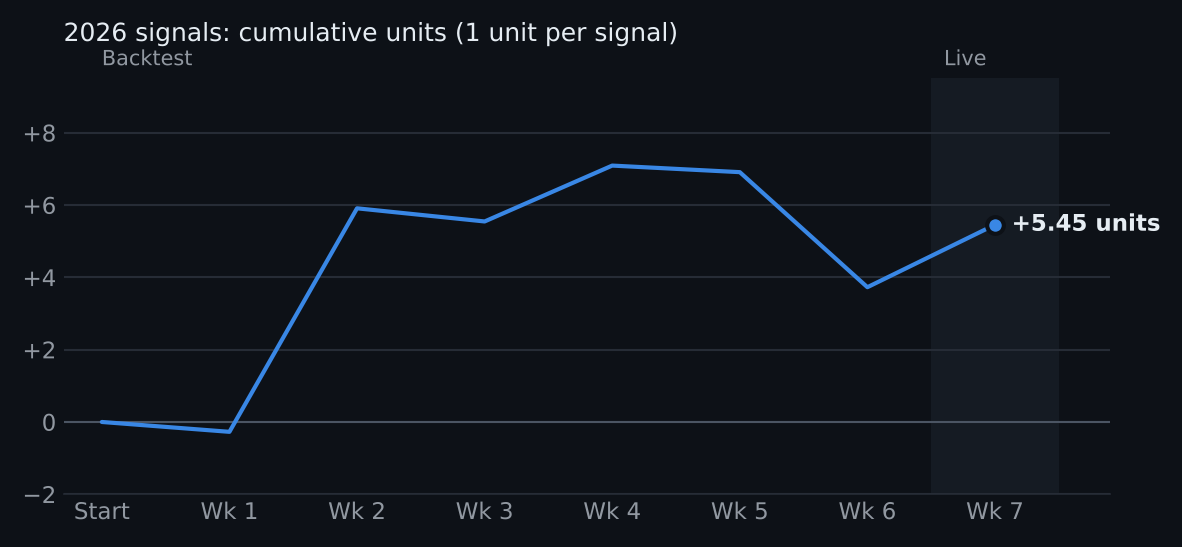
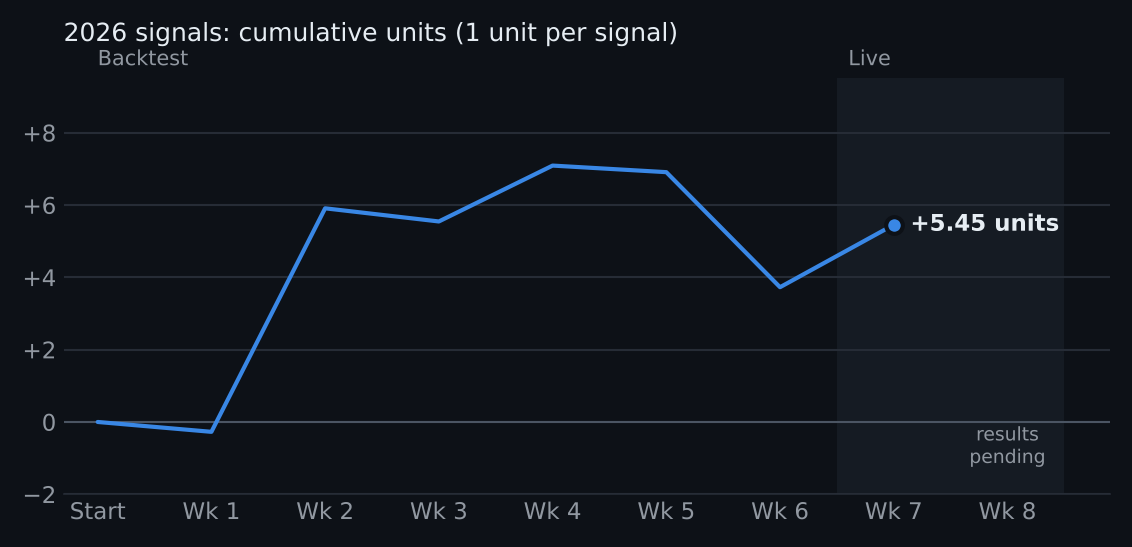
2026 week 8: post signals and verify them against current numbers
Five totals signals at SP+'s early numbers, each with the best current
DraftKings number and its EV. reports/week08_2026_verification.md records
the data audit, news check and verdict: none is a bet at today's numbers.
Rebuilding the database moved the headline backtest from 179-150 to 178-154
(optimizer noise in the 2024 distribution fit); the totals report is rerun.

Claude-Session: https://claude.ai/code/session_01KcZam8WgScdTfCV9QhSbTY

diff --git a/reports/backtest_totals_2026-10-21.md b/reports/backtest_totals_2026-10-21.md
@@ -1,0 +1,139 @@
+# Totals backtest 2026-10-21
+
+Seasons evaluated (walk-forward): [2022, 2023, 2024, 2025]. Sources: bcftoys, sp_plus. FBS-only: True; postseason: False. Market = median closing total across CFBD providers; early market = the SP+ sheet's O/U. Min EV +2% at -110.
+
+## Total-points distribution (walk-forward over [2014, 2015, 2016, 2017, 2018, 2019, 2021, 2022, 2023, 2024, 2025], ranked by cover)
+
+Cover log loss scores P(total > line) on every half-point line within 10 points of the closing total. Lower is better.
+
+| model               |    n |    log_lik |   cover_brier |   n_lines |   mean_log_lik |   delta_log_lik |   cover_log_loss |   delta_cover_ll |
+|:--------------------|-----:|-----------:|--------------:|----------:|---------------:|----------------:|-----------------:|-----------------:|
+| frequency_weighted  | 5933 | -24592.629 |         0.229 |    121669 |         -4.145 |           0.000 |            0.650 |            0.000 |
+| normal_linear_sigma | 5933 | -24881.617 |         0.229 |    121669 |         -4.194 |        -288.988 |            0.650 |           40.909 |
+| normal              | 5933 | -24904.290 |         0.229 |    121669 |         -4.198 |        -311.661 |            0.651 |           68.254 |
+| normal_shift        | 5933 | -24902.767 |         0.229 |    121669 |         -4.197 |        -310.138 |            0.651 |          120.748 |
+
+### Paired cover-log-loss differences vs the best (summed over games; SE across games)
+
+| model               | vs                 |   total_diff |     se |   n_games |
+|:--------------------|:-------------------|-------------:|-------:|----------:|
+| frequency_weighted  | frequency_weighted |        0.000 |  0.000 |      5933 |
+| normal              | frequency_weighted |       68.254 | 24.550 |      5933 |
+| normal_linear_sigma | frequency_weighted |       40.909 | 21.577 |      5933 |
+| normal_shift        | frequency_weighted |      120.748 | 35.315 |      5933 |
+
+## Per-season fitted parameters
+
+|   season | distribution        | weights                                                         |   alpha |   beta |   beta_se |   alpha_n |   alpha_early |   beta_early_se |
+|---------:|:--------------------|:----------------------------------------------------------------|--------:|-------:|----------:|----------:|--------------:|----------------:|
+|     2022 | frequency_weighted  | {'bcftoys': 0.5, 'sp_plus': 0.5}                                |   0.827 |  0.173 |     0.120 |       727 |         0.758 |           0.125 |
+|     2023 | frequency_weighted  | {'bcftoys': 0.21264979289473052, 'sp_plus': 0.7873502071052695} |   0.924 |  0.076 |     0.088 |      1454 |         0.789 |           0.096 |
+|     2024 | normal_linear_sigma | {'bcftoys': 0.18872717060475133, 'sp_plus': 0.8112728293952487} |   0.942 |  0.058 |     0.074 |      2197 |         0.814 |           0.082 |
+|     2025 | frequency_weighted  | {'bcftoys': 0.20464222343423447, 'sp_plus': 0.7953577765657655} |   0.847 |  0.153 |     0.066 |      2947 |         0.756 |           0.073 |
+
+## Forecast error vs actual total
+
+`common` = games with every source and an SP+ early O/U.
+
+| forecast     | sample   |    n |   rmse |    mae |
+|:-------------|:---------|-----:|-------:|-------:|
+| market_close | full     | 2998 | 15.694 | 12.467 |
+| market_close | common   | 2942 | 15.722 | 12.489 |
+| early_line   | full     | 2942 | 15.840 | 12.616 |
+| early_line   | common   | 2942 | 15.840 | 12.616 |
+| blend        | full     | 2978 | 15.714 | 12.477 |
+| blend        | common   | 2942 | 15.724 | 12.491 |
+| combined_F   | full     | 2978 | 16.123 | 12.841 |
+| combined_F   | common   | 2942 | 16.109 | 12.830 |
+| bcftoys      | full     | 2978 | 16.937 | 13.390 |
+| bcftoys      | common   | 2942 | 16.931 | 13.389 |
+| sp_plus      | full     | 2951 | 16.137 | 12.894 |
+| sp_plus      | common   | 2942 | 16.143 | 12.898 |
+
+## Mean error (actual - forecast) by season
+
+A standing bias here is an over/under lean the blend's alpha cannot remove (it has no intercept).
+
+|   season |   market_close |   early_line |   blend |   combined_F |   bcftoys |   sp_plus |
+|---------:|---------------:|-------------:|--------:|-------------:|----------:|----------:|
+| 2022.000 |         -0.103 |       -0.480 |  -0.259 |       -1.049 |    -1.506 |    -0.536 |
+| 2023.000 |          1.334 |        0.521 |   1.387 |        1.737 |     4.553 |     0.928 |
+| 2024.000 |          1.254 |        0.807 |   1.189 |       -0.173 |     0.517 |    -0.333 |
+| 2025.000 |          0.233 |       -0.246 |   0.087 |       -0.891 |     1.065 |    -1.394 |
+
+## Line movement: drift vs information
+
+`drift` = mean(close - early total): what always betting the under earns in CLV. `slope` = how far the close moves toward the blended sources per point they disagree with the early line (fit with an intercept, so drift is not counted as information). `clv_net` in the bet tables below is each early bet's CLV minus what always taking that side earned that season.
+
+| season   |    n |   drift |   drift_se |   intercept |   slope |   slope_se |
+|:---------|-----:|--------:|-----------:|------------:|--------:|-----------:|
+| 2022     |  711 |  -0.360 |      0.085 |      -0.416 |   0.115 |      0.019 |
+| 2023     |  723 |  -0.887 |      0.083 |      -0.822 |   0.056 |      0.023 |
+| 2024     |  750 |  -0.467 |      0.073 |      -0.560 |   0.096 |      0.020 |
+| 2025     |  758 |  -0.509 |      0.067 |      -0.612 |   0.160 |      0.019 |
+| all      | 2942 |  -0.555 |      0.039 |      -0.582 |   0.111 |      0.010 |
+
+## Source combinations (equal weights, alpha fit per season, bets vs close at -110)
+
+| combo           |   F_rmse |   M_rmse |   alpha |   bets |   w |   l |   p |   win_pct |
+|:----------------|---------:|---------:|--------:|-------:|----:|----:|----:|----------:|
+| bcftoys         |   16.923 |   15.806 |   0.949 |    492 | 242 | 247 |   3 |     0.495 |
+| bcftoys+sp_plus |   16.190 |   15.716 |   0.923 |     72 |  34 |  37 |   1 |     0.479 |
+| sp_plus         |   16.137 |   15.697 |   0.871 |    156 |  81 |  71 |   4 |     0.533 |
+
+### The same combinations at the early line
+
+SP+ alone is the timing-safe row: its projection and the early O/U come from the same sheet row. BCF Toys publish times are inferred (one hour before each week's first kickoff), so its projections are not proven to exist when the early O/U was posted.
+
+| combo           |   early_bets |   early_w |   early_l |   early_units |   early_win_pct |   early_clv_net |
+|:----------------|-------------:|----------:|----------:|--------------:|----------------:|----------------:|
+| bcftoys         |          425 |       211 |       206 |       -14.182 |           0.506 |           0.623 |
+| bcftoys+sp_plus |          310 |       171 |       133 |        22.455 |           0.562 |           0.865 |
+| sp_plus         |          338 |       177 |       156 |         4.909 |           0.532 |           0.328 |
+
+## Simulated bets: blend_close
+
+|   bets |      w |      l |     p |   win_pct |   win_se |    roi |   roi_se |   clv_points |   clv_prob |
+|-------:|-------:|-------:|------:|----------:|---------:|-------:|---------:|-------------:|-----------:|
+| 90.000 | 44.000 | 45.000 | 1.000 |     0.494 |    0.053 | -0.056 |    0.101 |        0.000 |      0.000 |
+
+| side   |   bets |      w |      l |     p |   win_pct |   win_se |    roi |   roi_se |   clv_points |   clv_prob |
+|:-------|-------:|-------:|-------:|------:|----------:|---------:|-------:|---------:|-------------:|-----------:|
+| over   | 66.000 | 29.000 | 36.000 | 1.000 |     0.446 |    0.062 | -0.146 |    0.117 |        0.000 |      0.000 |
+| under  | 24.000 | 15.000 |  9.000 | 0.000 |     0.625 |    0.102 |  0.193 |    0.193 |        0.000 |      0.001 |
+
+## Simulated bets: blend_early
+
+|    bets |       w |       l |     p |   win_pct |   win_se |   roi |   roi_se |   clv_points |   clv_prob |   clv_net |
+|--------:|--------:|--------:|------:|----------:|---------:|------:|---------:|-------------:|-----------:|----------:|
+| 337.000 | 178.000 | 154.000 | 5.000 |     0.536 |    0.027 | 0.023 |    0.052 |        0.698 |      0.020 |     0.674 |
+
+| side   |    bets |      w |      l |     p |   win_pct |   win_se |   roi |   roi_se |   clv_points |   clv_prob |   clv_net |
+|:-------|--------:|-------:|-------:|------:|----------:|---------:|------:|---------:|-------------:|-----------:|----------:|
+| over   | 179.000 | 95.000 | 83.000 | 1.000 |     0.534 |    0.037 | 0.019 |    0.071 |        0.454 |      0.011 |     0.946 |
+| under  | 158.000 | 83.000 | 71.000 | 4.000 |     0.539 |    0.040 | 0.028 |    0.075 |        0.975 |      0.031 |     0.367 |
+
+## Calibration (P(over) at the closing total, pushes excluded). Log loss: 0.6934
+
+| bin        |   n |   predicted |   observed |   season |
+|:-----------|----:|------------:|-----------:|---------:|
+| (0.4, 0.5] | 308 |       0.486 |      0.503 |     2022 |
+| (0.5, 0.6] | 407 |       0.517 |      0.494 |     2022 |
+| (0.6, 0.7] |   1 |       0.625 |      0.000 |     2022 |
+| (0.4, 0.5] | 400 |       0.493 |      0.497 |     2023 |
+| (0.5, 0.6] | 334 |       0.507 |      0.527 |     2023 |
+| (0.4, 0.5] | 258 |       0.497 |      0.516 |     2024 |
+| (0.5, 0.6] | 477 |       0.505 |      0.524 |     2024 |
+| (0.4, 0.5] | 264 |       0.491 |      0.447 |     2025 |
+| (0.5, 0.6] | 489 |       0.512 |      0.511 |     2025 |
+
+
+**Sample:** 2998 games evaluated; 427 simulated bets across all bet sets.
+
+
+### Reality check
+
+- Break-even at -110 is 52.38%.
+- Standard error of a win rate over N bets is about 0.5/sqrt(N): with N = 90, that is 5.3% (about 2.2 points at N = 500). A 54% backtest on a few hundred bets is not distinguishable from break-even.
+- CLV is the faster, more reliable signal.
+- These results are vs the **retail consensus close** (median of CFBD providers), not a sharp close.

diff --git a/2026/week-08/ratings.md b/2026/week-08/ratings.md
@@ -1,0 +1,62 @@
+# 2026 · Week 8 ratings
+
+Lines as of Wed Oct 21, 3:23 PM ET. Model = SP+ and BCF Toys FEI blended with the market (it leans about 94% on the market for spreads). Win % is the favorite's chance to win outright.
+
+| Kickoff | Game | Line | Model | Win % | SP+ | BCF | Early O/U | Now | Model total | Final |
+|---|---|---|---|---:|---|---|---:|---:|---:|---|
+| Tue Oct 20, 7:00 PM ET | Middle Tennessee at Florida International | Florida International −10.5 | Florida International by 10.3 | 76% Florida International | Florida International by 13.6 | Florida International by 8.0 | 45.5 | 46.5 | 45.7 | 26–23 |
+| Tue Oct 20, 7:00 PM ET | Missouri State at Delaware | Delaware −3 | Delaware by 3.1 | 58% Delaware | Delaware by 6.2 | Delaware by 2.9 | 52.5 | 54.2 | 52.8 | 38–61 |
+| Tue Oct 20, 7:30 PM ET | South Alabama at Marshall | South Alabama −1.5 | South Alabama by 1.5 | 52% South Alabama | Marshall by 0.5 | South Alabama by 3.4 | 62.5 | 66.2 | 62.8 | 13–20 |
+| Wed Oct 21, 8:00 PM ET | New Mexico State at Sam Houston | New Mexico State −3 | New Mexico State by 2.8 | 56% New Mexico State | Sam Houston by 0.1 | Sam Houston by 2.1 | 45.5 | 46.8 | 45.7 |  |
+| Thu Oct 22, 7:00 PM ET | James Madison at App State | James Madison −10.5 | James Madison by 10.7 | 77% James Madison | James Madison by 14.9 | James Madison by 13.8 | 57.5 | 56.5 | 56.6 |  |
+| Thu Oct 22, 7:00 PM ET | Liberty at Kennesaw State | Liberty −10 | Liberty by 10.3 | 76% Liberty | Liberty by 15.8 | Liberty by 13.8 | 47.5 | 50.5 | 48.3 |  |
+| Thu Oct 22, 7:30 PM ET | East Carolina at Memphis | Memphis −10 | Memphis by 10.1 | 76% Memphis | Memphis by 12.7 | Memphis by 11.4 | 54.5 | 54.2 | 53.9 |  |
+| Fri Oct 23, 7:00 PM ET | Duke at Virginia | Virginia −1.5 | Virginia by 1.5 | 52% Virginia | Virginia by 2.7 | Duke by 0.7 | 47.5 | 47.5 | 48.4 |  |
+| Fri Oct 23, 7:00 PM ET | Massachusetts at UConn | UConn −14.5 | UConn by 14.3 | 82% UConn | UConn by 8.7 | UConn by 14.5 | 47.5 | 49.5 | 48.8 |  |
+| Fri Oct 23, 8:30 PM ET | Army at Tulsa | Tulsa −1.5 | Tulsa by 1.6 | 52% Tulsa | Army by 1.4 | Army by 2.8 | 52.5 | 54.5 | 53.5 |  |
+| Fri Oct 23, 9:00 PM ET | Air Force at Wyoming | Air Force −5.5 | Air Force by 5.5 | 64% Air Force | Air Force by 8.3 | Air Force by 11.8 | 43.5 | 45.5 | 45.0 |  |
+| Fri Oct 23, 10:30 PM ET | NC State at Stanford | NC State −6.5 | NC State by 6.6 | 66% NC State | NC State by 7.7 | NC State by 8.3 | 55.5 | 55.5 | 55.6 |  |
+| Sat Oct 24, 12:00 PM ET | LSU at Auburn | LSU −7.5 | LSU by 7.6 | 71% LSU | LSU by 11.2 | LSU by 7.6 | 50.5 | 51.2 | 49.9 |  |
+| Sat Oct 24, 12:00 PM ET | Texas Tech at Cincinnati | Texas Tech −10.5 | Texas Tech by 10.7 | 77% Texas Tech | Texas Tech by 14.2 | Texas Tech by 11.9 | 56.5 | 56.5 | 56.5 |  |
+| Sat Oct 24, 12:00 PM ET | West Virginia at TCU | TCU −10 | TCU by 9.9 | 75% TCU | TCU by 13.5 | TCU by 9.2 | 58.5 | 56.5 | 57.7 |  |
+| Sat Oct 24, 12:00 PM ET | California at SMU | SMU −19.5 | SMU by 19.5 | 88% SMU | SMU by 21.6 | SMU by 14.6 | 52.5 | 54.5 | 52.4 |  |
+| Sat Oct 24, 12:00 PM ET | Pittsburgh at Miami | Miami −19.5 | Miami by 19.4 | 88% Miami | Miami by 18.4 | Miami by 18.9 | 51.5 | 48.8 | 51.7 |  |
+| Sat Oct 24, 12:00 PM ET | Indiana at Michigan | Indiana −7 | Indiana by 7.1 | 69% Indiana | Indiana by 8.1 | Indiana by 10.2 | 41.5 | 41.5 | 42.4 |  |
+| Sat Oct 24, 12:00 PM ET | Rutgers at Northwestern | Northwestern −16.5 | Northwestern by 16.4 | 85% Northwestern | Northwestern by 18.8 | Northwestern by 20.7 | 58.5 | 58.2 | 58.5 |  |
+| Sat Oct 24, 12:00 PM ET | Rice at Florida Atlantic | Florida Atlantic −7.5 | Florida Atlantic by 7.5 | 71% Florida Atlantic | Florida Atlantic by 14.1 | Florida Atlantic by 8.1 | 58.5 | 51.2 | 57.6 |  |
+| Sat Oct 24, 12:00 PM ET | Western Michigan at Toledo | Toledo −3 | Toledo by 3.1 | 58% Toledo | Toledo by 5.8 | Toledo by 2.4 | 44.5 | 45.8 | 45.3 |  |
+| Sat Oct 24, 1:00 PM ET | Baylor at Kansas | Baylor −3 | Baylor by 3.0 | 57% Baylor | Baylor by 2.9 | Baylor by 1.4 | 54.5 | 52.8 | 53.8 |  |
+| Sat Oct 24, 1:00 PM ET | Akron at Kent State | Kent State −3 | Kent State by 3.1 | 58% Kent State | Kent State by 3.1 | Kent State by 7.4 | 42.5 | 46.2 | 43.9 |  |
+| Sat Oct 24, 1:00 PM ET | Miami (OH) at Central Michigan | Miami (OH) −2.5 | Miami (OH) by 2.8 | 56% Miami (OH) | Miami (OH) by 10.0 | Miami (OH) by 2.5 | 42.5 | 40.0 | 44.0 |  |
+| Sat Oct 24, 3:00 PM ET | Oregon at Illinois | Oregon −9.5 | Oregon by 9.6 | 74% Oregon | Oregon by 10.3 | Oregon by 10.8 | 51.5 | 50.8 | 52.5 |  |
+| Sat Oct 24, 3:30 PM ET | Texas A&M at Alabama | Alabama −14 | Alabama by 13.7 | 81% Alabama | Alabama by 11.0 | Alabama by 14.7 | 51.5 | 50.5 | 51.6 |  |
+| Sat Oct 24, 3:30 PM ET | Oklahoma at Mississippi State | Oklahoma −4.5 | Oklahoma by 4.3 | 62% Oklahoma | even | Oklahoma by 0.6 | 46.5 | 44.8 | 47.1 |  |
+| Sat Oct 24, 3:30 PM ET | Tennessee at South Carolina | South Carolina −2.5 | South Carolina by 2.1 | 53% South Carolina | Tennessee by 5.0 | Tennessee by 3.5 | 50.5 | 50.8 | 51.0 |  |
+| Sat Oct 24, 3:30 PM ET | BYU at UCF | BYU −6.5 | BYU by 6.9 | 68% BYU | BYU by 14.2 | BYU by 13.6 | 45.5 | 43.5 | 46.2 |  |
+| Sat Oct 24, 3:30 PM ET | Boston College at Georgia Tech | Georgia Tech −4 | Georgia Tech by 4.4 | 62% Georgia Tech | Georgia Tech by 7.6 | Georgia Tech by 3.5 | 49.5 | 49.5 | 49.8 |  |
+| Sat Oct 24, 3:30 PM ET | Iowa at Minnesota | Iowa −6.5 | Iowa by 6.6 | 67% Iowa | Iowa by 7.9 | Iowa by 11.5 | 41.5 | 40.5 | 42.4 |  |
+| Sat Oct 24, 3:30 PM ET | Michigan State at UCLA | UCLA −14 | UCLA by 14.2 | 82% UCLA | UCLA by 17.6 | UCLA by 15.7 | 46.5 | 44.8 | 47.5 |  |
+| Sat Oct 24, 3:30 PM ET | North Texas at Navy | North Texas −2.5 | North Texas by 2.3 | 53% North Texas | Navy by 3.7 | North Texas by 4.2 | 61.5 | 62.5 | 61.3 |  |
+| Sat Oct 24, 3:30 PM ET | Hawai'i at Northern Illinois | Hawai'i −4.5 | Hawai'i by 4.5 | 62% Hawai'i | Hawai'i by 9.9 | Hawai'i by 4.8 | 45.5 | 47.8 | 46.5 |  |
+| Sat Oct 24, 3:30 PM ET | Sacramento State at Ball State | Ball State −14.5 | Ball State by 14.0 | 82% Ball State | Ball State by 7.1 | Ball State by 16.6 | 50.5 | 51.2 | 50.8 |  |
+| Sat Oct 24, 3:30 PM ET | Bowling Green at Buffalo | Buffalo −3 | Buffalo by 3.2 | 59% Buffalo | Buffalo by 8.2 | Buffalo by 4.0 | 43.5 | 44.8 | 43.9 |  |
+| Sat Oct 24, 3:45 PM ET | Kansas State at Arizona State | Kansas State −3.5 | Kansas State by 3.8 | 61% Kansas State | Kansas State by 8.8 | Kansas State by 7.4 | 56.5 | 56.8 | 56.0 |  |
+| Sat Oct 24, 4:00 PM ET | Eastern Michigan at Ohio | Ohio −12.5 | Ohio by 12.4 | 79% Ohio | Ohio by 14.8 | Ohio by 16.4 | 49.5 | 48.5 | 49.7 |  |
+| Sat Oct 24, 4:00 PM ET | UL Monroe at Troy | Troy −14.5 | Troy by 14.6 | 83% Troy | Troy by 21.0 | Troy by 18.1 | 50.5 | 51.2 | 51.2 |  |
+| Sat Oct 24, 5:00 PM ET | San José State at Nevada | Nevada −5.5 | Nevada by 5.3 | 64% Nevada | Nevada by 7.2 | Nevada by 6.9 | 45.5 | 46.2 | 45.4 |  |
+| Sat Oct 24, 5:00 PM ET | Louisiana at Southern Miss | Louisiana −10 | Louisiana by 10.3 | 76% Louisiana | Louisiana by 16.4 | Louisiana by 11.5 | 53.5 | 52.5 | 53.6 |  |
+| Sat Oct 24, 5:00 PM ET | Old Dominion at Louisiana Tech | Louisiana Tech −12.5 | Louisiana Tech by 12.4 | 79% Louisiana Tech | Louisiana Tech by 9.9 | Louisiana Tech by 10.5 | 45.5 | 45.8 | 45.8 |  |
+| Sat Oct 24, 6:00 PM ET | Boise State at Washington State | Boise State −13.5 | Boise State by 13.5 | 80% Boise State | Boise State by 19.0 | Boise State by 14.0 | 50.5 | 51.5 | 50.9 |  |
+| Sat Oct 24, 6:30 PM ET | San Diego State at Colorado State | San Diego State −1.5 | San Diego State by 1.2 | 51% San Diego State | Colorado State by 1.6 | San Diego State by 3.3 | 61.5 | 63.5 | 60.4 |  |
+| Sat Oct 24, 7:00 PM ET | Colorado at Oklahoma State | Oklahoma State −13.5 | Oklahoma State by 13.5 | 80% Oklahoma State | Oklahoma State by 15.9 | Oklahoma State by 8.1 | 54.5 | 55.8 | 53.8 |  |
+| Sat Oct 24, 7:00 PM ET | Virginia Tech at Clemson | Clemson −2.5 | Clemson by 2.6 | 54% Clemson | Virginia Tech by 2.5 | Clemson by 3.3 | 49.5 | 49.5 | 49.4 |  |
+| Sat Oct 24, 7:00 PM ET | Georgia State at Arkansas State | Georgia State −2.5 | Georgia State by 2.1 | 53% Georgia State | Arkansas State by 3.4 | Georgia State by 3.6 | 55.5 | 58.5 | 56.2 |  |
+| Sat Oct 24, 7:30 PM ET | Vanderbilt at Kentucky | Kentucky −10.5 | Kentucky by 10.6 | 76% Kentucky | Kentucky by 10.0 | Kentucky by 15.3 | 51.5 | 51.5 | 52.3 |  |
+| Sat Oct 24, 7:30 PM ET | Ole Miss at Texas | Texas −3.5 | Texas by 3.6 | 61% Texas | Texas by 6.5 | Texas by 1.7 | 53.5 | 54.0 | 53.7 |  |
+| Sat Oct 24, 7:30 PM ET | Iowa State at Arizona | Arizona −10.5 | Arizona by 10.7 | 77% Arizona | Arizona by 17.1 | Arizona by 5.1 | 50.5 | 50.5 | 51.0 |  |
+| Sat Oct 24, 7:30 PM ET | Syracuse at North Carolina | North Carolina −7.5 | North Carolina by 7.7 | 71% North Carolina | North Carolina by 9.8 | North Carolina by 10.8 | 44.5 | 47.2 | 45.8 |  |
+| Sat Oct 24, 7:30 PM ET | USC at Wisconsin | USC −3 | USC by 3.1 | 58% USC | USC by 4.5 | USC by 3.0 | 49.5 | 49.8 | 50.0 |  |
+| Sat Oct 24, 7:30 PM ET | Utah State at Texas State | Texas State −13.5 | Texas State by 13.3 | 80% Texas State | Texas State by 14.0 | Texas State by 3.5 | 58.5 | 61.0 | 57.8 |  |
+| Sat Oct 24, 8:00 PM ET | UTSA at Tulane | UTSA −2.5 | UTSA by 2.5 | 54% UTSA | UTSA by 4.9 | Tulane by 1.8 | 51.5 | 51.5 | 51.5 |  |
+| Sat Oct 24, 10:00 PM ET | North Dakota State at New Mexico | New Mexico −4.5 | New Mexico by 4.6 | 63% New Mexico | New Mexico by 3.7 | New Mexico by 10.4 | 43.5 | 41.2 | 43.7 |  |
+| Sat Oct 24, 10:15 PM ET | Houston at Utah | Utah −6.5 | Utah by 6.6 | 67% Utah | Utah by 7.6 | Utah by 11.0 | 56.5 | 56.5 | 57.0 |  |

diff --git a/reports/week08_2026_verification.md b/reports/week08_2026_verification.md
@@ -1,0 +1,70 @@
+# 2026 Week 8: are the signals bettable? (checked Wed Oct 21)
+
+The model posted five totals signals for Week 8 at SP+'s early-week numbers (`2026/week-08/`). Before treating
+any of them as a bet, each one went through three checks:
+
+- **Data audit:** every number was traced back to the raw SP+ workbook, the BCF Toys page and the CFBD rows.
+- **News sweep:** one search per game for injuries, weather and why the line moved.
+- **Skeptic:** a final pass that defaults to "pass" unless the bet survives every objection.
+
+**Bottom line: none is a bet at today's numbers.**
+
+## Why the early-number signals are not the same as bets
+
+The totals backtest (`reports/backtest_totals_2026-10-21.md`) shows the edge only at the early number:
+
+| Rule, 2022–2025 | Record | ROI |
+|---|---|---:|
+| Over/under at the early SP+ sheet number | 178–154–5 | +2.3% |
+| Same model at the closing number | 44–45–1 | −5.6% |
+
+The edge is getting in before the market moves toward SP+ and FEI. Once the line has moved, it is gone.
+
+## The five signals
+
+DraftKings totals come from CFBD (fetched Oct 21, 19:22 UTC), priced at −110 because CFBD has no prices.
+
+| Game | Signal | DraftKings now | EV now | Verdict | Why |
+|---|---|---:|---:|---|---|
+| Massachusetts at UConn | Over 47.5 | 49.5 | −2.7% | Pass | The line moved 2 points toward the model, so the edge is taken. UMass QB Pop Watson (ankle) is a game-time decision and both backups are hurt. |
+| Air Force at Wyoming | Over 43.5 | 45.5 | −2.7% | Lean, 43.5 or better only | The move was public money (about 94% of handle on the over), not news. A Friday cold front with 20+ mph wind and rain is forecast for Laramie. Only consider it if the number returns to 43.5 and Friday's forecast shows wind under 15 mph and no rain. |
+| Akron at Kent State | Over 42.5 | 46.5 | −3.4% | Pass | The market has fully reached the model. Kent State scored 10, 7 and 2 in its last three games and benched its kicker. |
+| Miami (OH) at Central Michigan | Over 42.5 | 39.5 | +3.7% | Pass | The only positive current EV, but it comes from news the model can't see. CMU QB Angel Flores (concussion protocol, status TBD) drove the total down 3 points and the spread 4. SP+ and FEI don't adjust for QB injuries. With even a −2.5 point Flores adjustment, EV falls to about +0.9%. |
+| Syracuse at North Carolina | Over 44.5 | 47.5 | −2.2% | Pass | The line moved 3 points toward the model. Syracuse has not named a QB, and Steve Angeli's return is unconfirmed. FanDuel is at 46.5 −115. |
+
+**Spreads:** nothing clears +2% EV at the books. The fitted blend puts about 94% weight on the market for spreads,
+so spread signals are rare by design.
+
+## Data audit
+
+Every number matched across the CFBD game rows, the SP+ Week 8 tab, the BCF Toys Week 8 table, the stored
+projections and the blended totals:
+
+- all five games are unplayed and on the right team;
+- Miami (OH) resolves to team 193, not Miami (FL);
+- each projection was published before kickoff;
+- recomputing each blended total and EV reproduces the posted values.
+
+No problems found.
+
+## Note on the backtest numbers
+
+Rebuilding the database in a new environment changed the headline early-number record:
+
+| | Record | Units |
+|---|---|---:|
+| Before rebuild (2026-10-16) | 179–150–5 | +12.7 |
+| After rebuild (2026-10-21) | 178–154–5 | +7.8 |
+
+The inputs are the same. Per-season samples are identical, and source weights agree to 8 decimals. The change comes
+from the 2024 season's selected distribution (`normal_linear_sigma`): its optimizer converged slightly differently,
+and three borderline signals crossed the +2% bar. Numerical noise alone moving the record by about 5 units is
+another sign the early-number record is not yet distinguishable from break-even (SE about 2.7 points on the win
+rate). Treat it as a hypothesis that the line-movement data supports: the close moved +0.67 points toward the
+signal, net of drift. It is not a proven edge.
+
+## How to act on future weeks
+
+The strategy only works at the early number, so the signals need to reach you when SP+'s sheet and BCF Toys
+update (usually Monday or Tuesday). By Wednesday the move has usually happened. Before betting, check the
+starting-QB news. SP+ and FEI are season ratings and don't price a QB injury.

diff --git a/2026/week-08/README.md b/2026/week-08/README.md
@@ -1,0 +1,23 @@
+# 2026 · Week 8
+
+Live: posted Wed Oct 21, 3:23 PM ET, before every signal's kickoff. Signals are frozen once posted; only results are added.
+
+## Signals
+
+1 unit each. Totals at −110 at the early-week number from SP+'s sheet; spreads at the listed book's price.
+
+**Now** is the best number at your books when this was posted (DraftKings is the only one of them CFBD carries, at −110) and the same bet's EV there. The record grades every signal at its listed number, but if Now is below +2%, the edge was already gone when this was posted.
+
+| Kickoff | Game | Bet | Rule | Model | EV | Now | Result |
+|---|---|---|---|---|---:|---|---|
+| Fri Oct 23, 7:00 PM ET | Massachusetts at UConn | **Over 47.5** | Totals, early number | total 48.8 | +3.4% | DraftKings 49.5 · -2.7% | pending |
+| Fri Oct 23, 9:00 PM ET | Air Force at Wyoming | **Over 43.5** | Totals, early number | total 45.0 | +6.2% | DraftKings 45.5 · -2.7% | pending |
+| Sat Oct 24, 1:00 PM ET | Akron at Kent State | **Over 42.5** | Totals, early number | total 43.9 | +2.2% | DraftKings 46.5 · -3.4% | pending |
+| Sat Oct 24, 1:00 PM ET | Miami (OH) at Central Michigan | **Over 42.5** | Totals, early number | total 44.0 | +3.2% | DraftKings 39.5 · +3.7% | pending |
+| Sat Oct 24, 7:30 PM ET | Syracuse at North Carolina | **Over 44.5** | Totals, early number | total 45.8 | +3.4% | DraftKings 47.5 · -2.2% | pending |
+
+**Week:** no results yet
+
+## Ratings
+
+Every game's line, model line and win probability: [ratings.md](ratings.md) · [ratings.csv](ratings.csv) (56 games).

diff --git a/2026/README.md b/2026/README.md
@@ -6,7 +6,7 @@ Weekly ratings and signals from SP+ and BCF Toys FEI projections blended with th
 
 | | Signals | Record |
 |---|---:|---|
-| Live, posted before kickoff | 4 | 3–1, +1.73 units |
+| Live, posted before kickoff | 9 | 3–1, +1.73 units |
 | Backtest, out-of-sample | 44 | 25–19, +3.73 units |
 | Real bets logged (`cfb log-bet`) | 0 | none logged yet |
 
@@ -33,6 +33,7 @@ Live signals are frozen when posted and graded at the price shown. Backtest week
 | [Week 5](week-05/) | 4 | 2–2, -0.18 units | backtest |
 | [Week 6](week-06/) | 7 | 2–5, -3.18 units | backtest |
 | [Week 7](week-07/) | 4 | 3–1, +1.73 units | live |
+| [Week 8](week-08/) | 5 | no results yet | live |
 
 ## Backtest, 2022–2025
 
@@ -41,7 +42,7 @@ Live signals are frozen when posted and graded at the price shown. Backtest week
   <img alt="Totals at the early number, 2022–2025" src="charts/backtest-light.png">
 </picture>
 
-The headline rule over 2022–2025, each season scored by a model fit only on earlier seasons: 334 signals, 179–150–5 (54.4%), +12.7 units, ROI +3.8%. The closing total moved toward the signal by +0.70 points on average (+0.66 after the usual early-to-close drift).
+The headline rule over 2022–2025, each season scored by a model fit only on earlier seasons: 337 signals, 178–154–5 (53.6%), +7.8 units, ROI +2.3%. The closing total moved toward the signal by +0.70 points on average (+0.67 after the usual early-to-close drift).
 
 
 ## Rules
